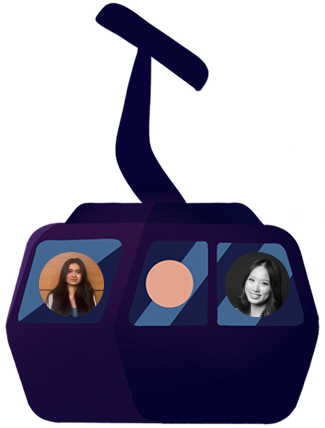
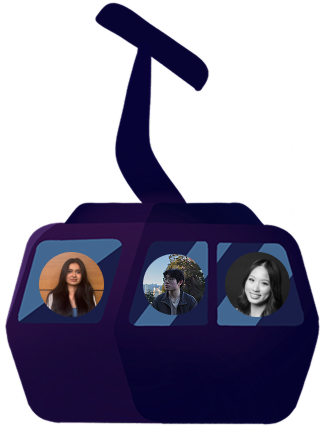
team section updates - add photos, fix typos

Changed region(s): [[0.4308, 0.5771, 0.6462, 0.7593]]

diff --git a/sus-hacks-2026/sections/bottom-section-components/meet-our-team.tsx b/sus-hacks-2026/sections/bottom-section-components/meet-our-team.tsx
@@ -11,14 +11,14 @@ export default function MeetOurTeam({ theme }: Props) {
     {
       img: theme === "dark" ? "/images/dark-gondola-1.png" : "/images/gondola-1.png",
       name1: "Claire Zhang: Hackathon Co-Lead",
-      name2: "Carmen Choo: Hackathon Co-Lea",
+      name2: "Carmen Choo: Hackathon Co-Lead",
       name3: "Corbin Platti: Outreach Committee Lead",
       delay: "0s",
     },
     {
       img: theme === "dark" ? "/images/dark-gondola-2.png" : "/images/gondola-2.png",
       name1: "Ridhi: Logistics Committee Member",
-      name2: "Alan Wu: Logistics Committee Member",
+      name2: "Alan Wu: Logistics Committee & Developer",
       name3: "Hilary Chow: Logistics Committee Member",
       delay: "4s",
     },
@@ -26,7 +26,7 @@ export default function MeetOurTeam({ theme }: Props) {
       img: theme === "dark" ? "/images/dark-gondola-3.png" : "/images/gondola-3.png",
       name1: "Insha Majeed: Outreach Committee Member",
       name2: "Eric Song: Outreach Committee Member",
-      name3: "Lexi Wong",
+      name3: "Lexi Wong: Outreach Committee Member",
       delay: "8s",
     },
     {
@@ -40,7 +40,7 @@ export default function MeetOurTeam({ theme }: Props) {
       img: theme === "dark" ? "/images/dark-gondola-5.png" : "/images/gondola-5.png",
       name1: "Arnavdeep: Marketing Committee Lead",
       name2: "Ramayani: Marketing Committee Member",
-      name3: "Norinne: Marketing Committee Member & UX Designer",
+      name3: "Norinne: Marketing Committee & UX Designer",
       delay: "16s",
     },
     {
@@ -100,7 +100,7 @@ export default function MeetOurTeam({ theme }: Props) {
 
             {hoveredIndex === i && (
               <p
-                className={`absolute bottom-[5%] text-center text-sm md:text-base lg:text-md font-semibold ${
+                className={`absolute bottom-[8%] text-center text-[0.5rem] md:text-[0.625rem] lg:text-xs font-semibold ${
                   theme === "dark" ? "text-[#FFC2DA]" : "text-[#FFDEB1]"
                 }`}
                 style={{ textShadow: "0 1px 4px rgba(0,0,0,0.5)" }}
